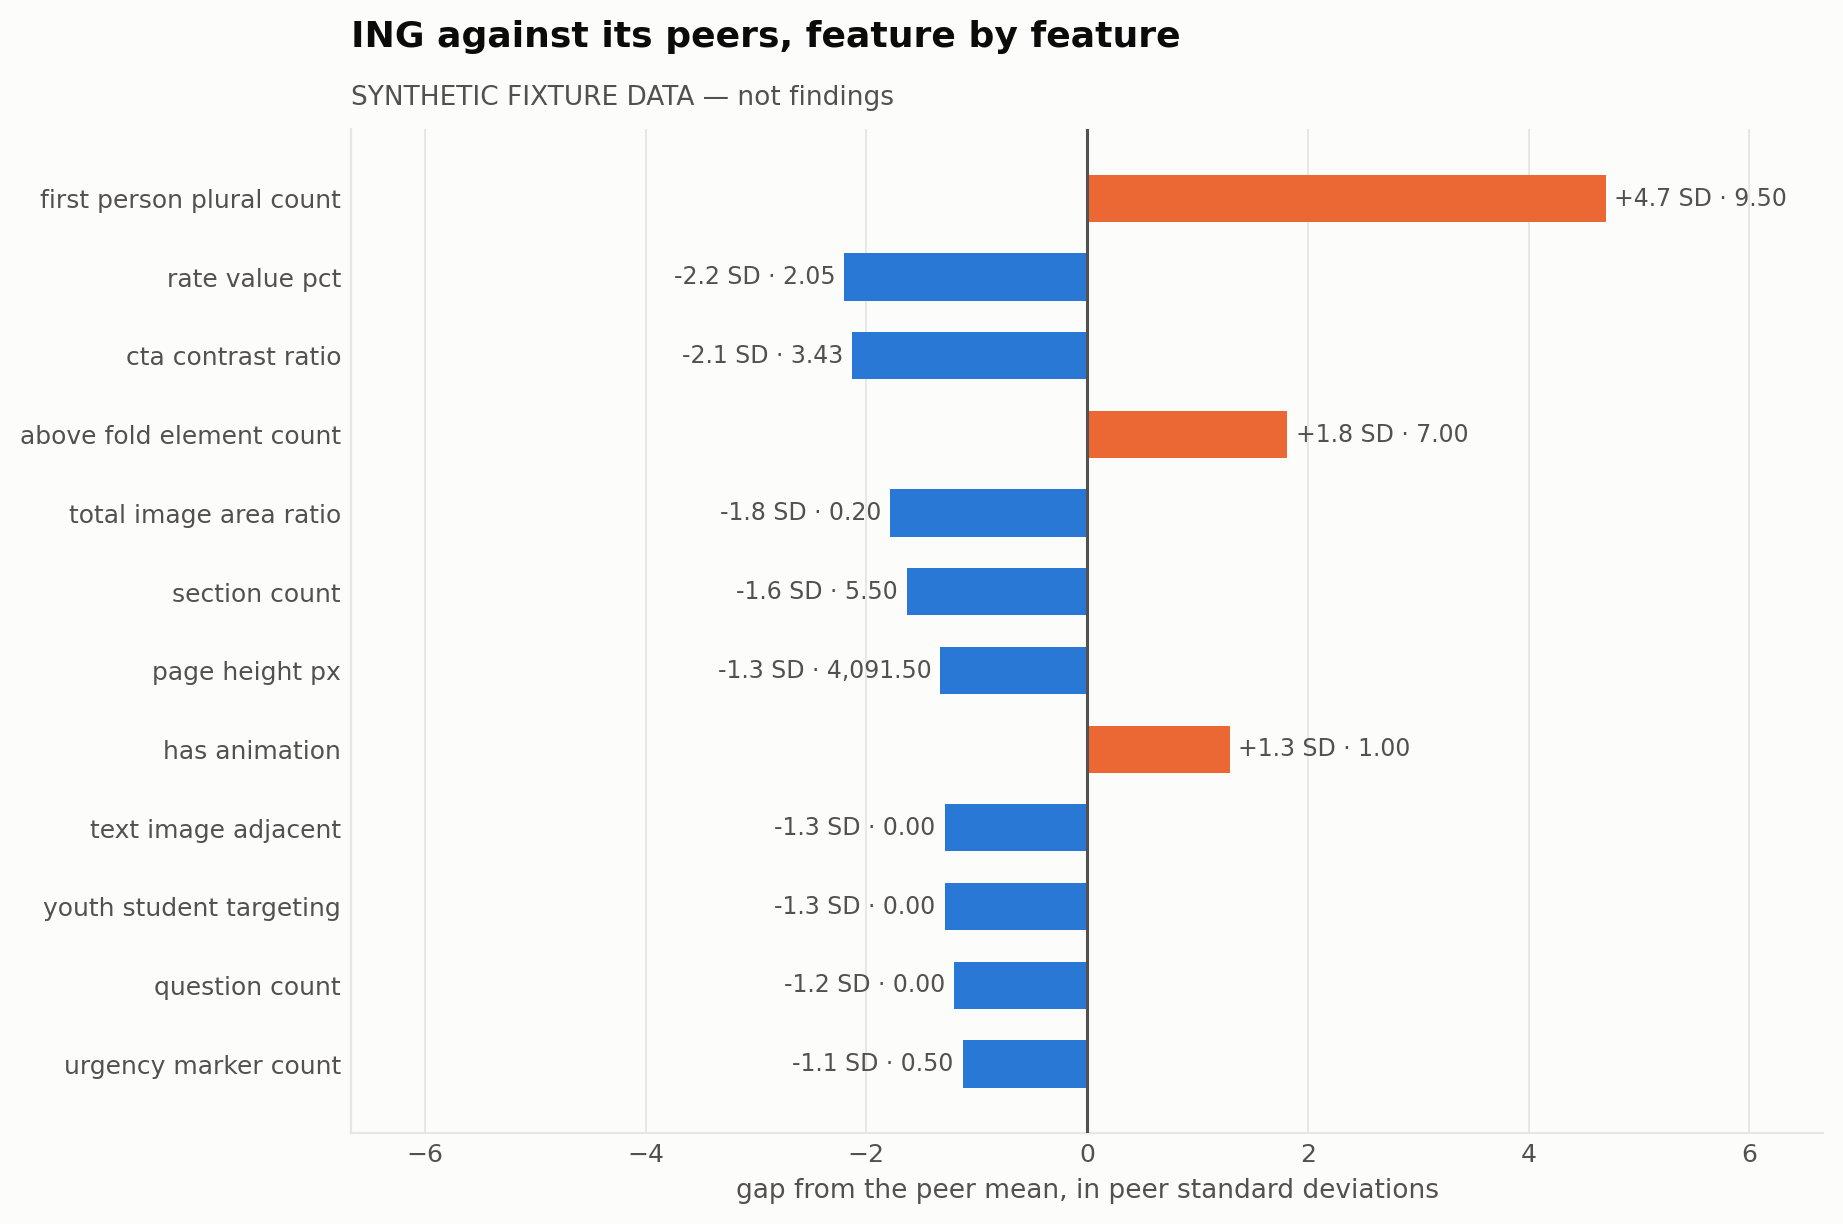
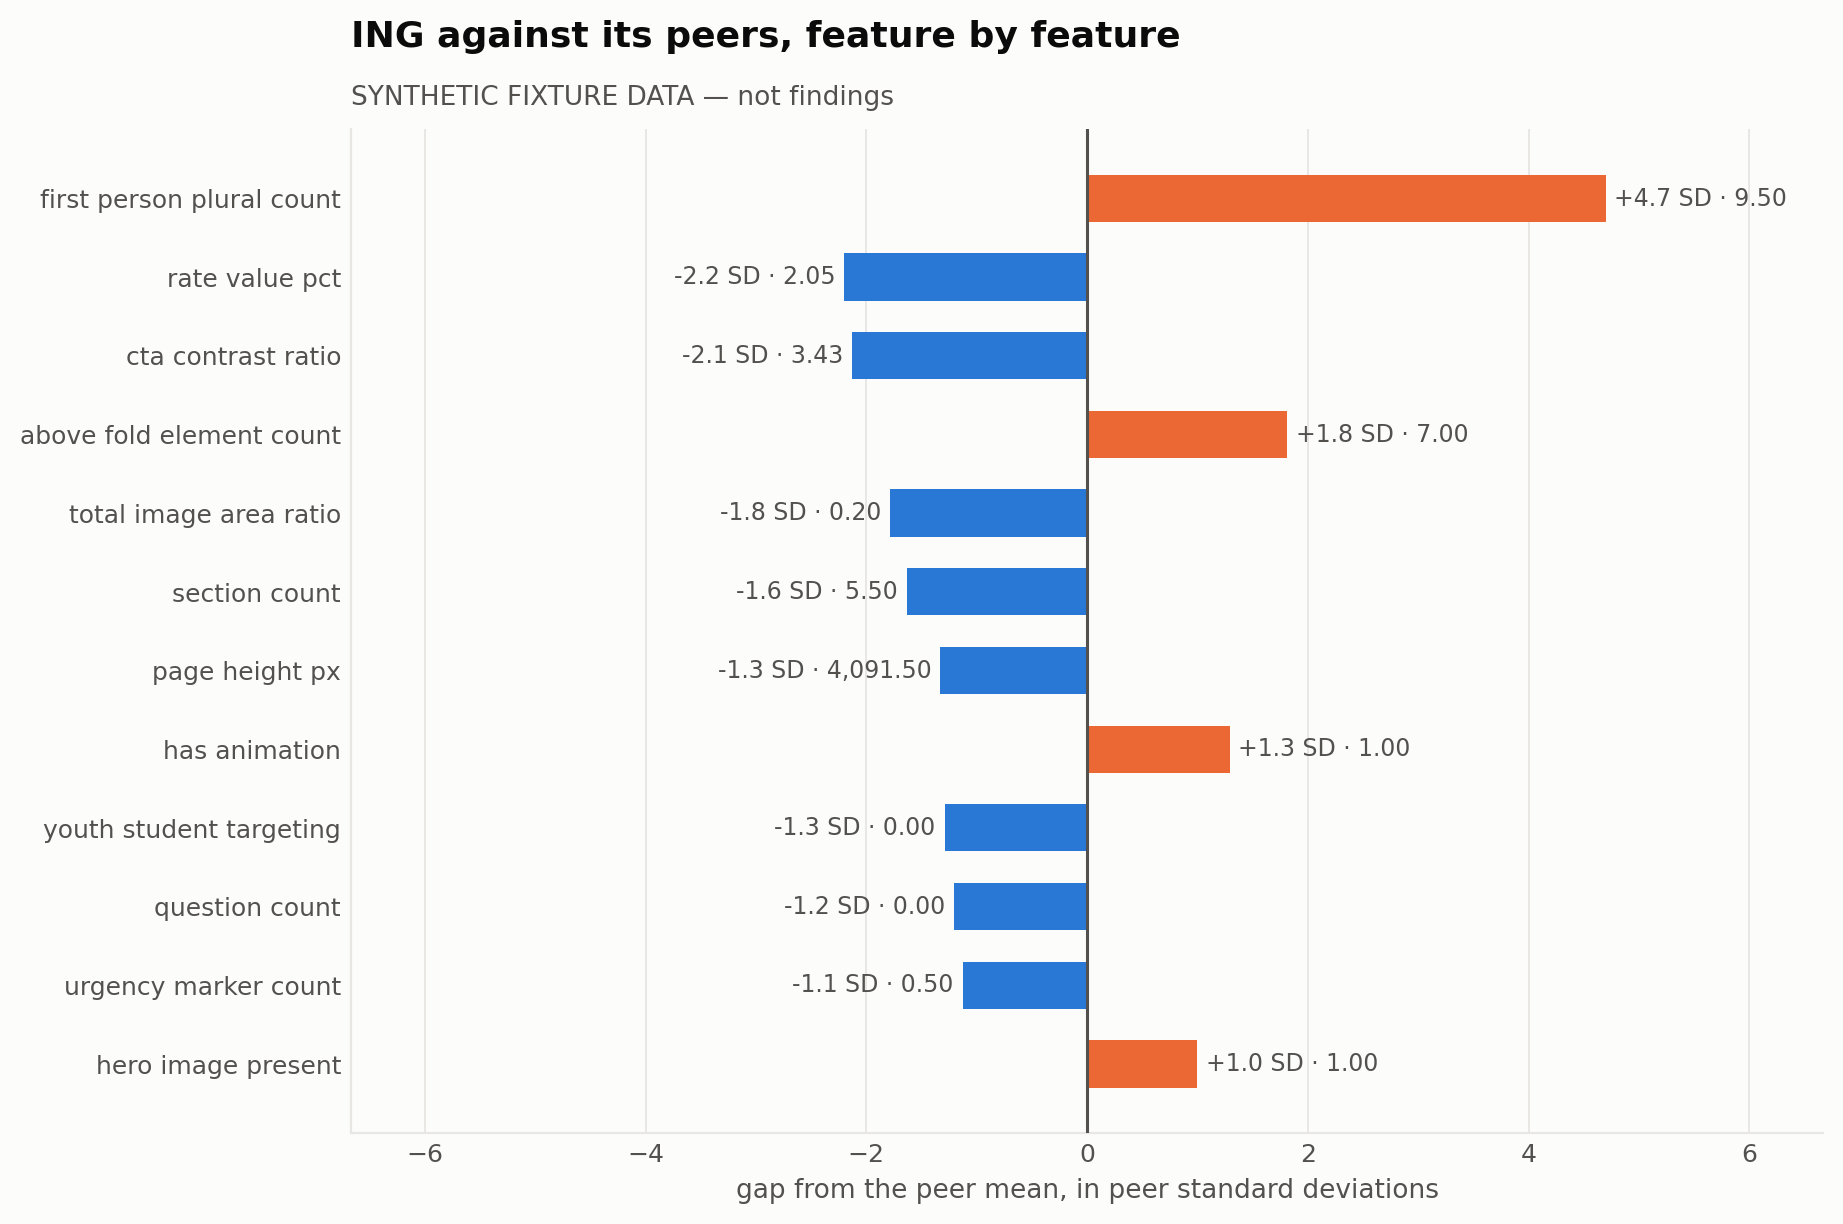
bugfixes + verification pass: NPS note, French CTA keywords, stale outputs, README

diff --git a/tests/test_generation.py b/tests/test_generation.py
@@ -69,6 +69,19 @@ def test_both_variants_are_built(df, fd):
     assert targets["on_brand"].specs and targets["challenger_style"].specs
 
 
+# sieg 15/09: new test - cta_above_fold/disclaimer_present are unconditionally
+# appended as rubric-driven specs, but were not excluded from the data-derived
+# "movable" list. Didn't trigger on the fixture (neither landed in the top_n),
+# but real data could put cta_above_fold there (it's a real traditional/
+# challenger differentiator), which would score it twice in the scorecard.
+def test_no_target_feature_is_named_twice(df, fd):
+    for variant, target in build_targets(df, fd).items():
+        features = [s.feature for s in target.specs]
+        assert len(features) == len(set(features)), (
+            f"{variant}: duplicate target spec(s) for {[f for f in features if features.count(f) > 1]}"
+        )
+
+
 def test_targets_only_name_measurable_features(df, fd):
     for target in build_targets(df, fd).values():
         for spec in target.specs:

diff --git a/tests/test_freeze.py b/tests/test_freeze.py
@@ -99,6 +99,18 @@ def test_narrowing_a_range_is_breaking():
     assert not compare(frozen, current).ok
 
 
+# sieg 15/09: new test - freeze.py used to only check narrowing of an
+# EXISTING range, so adding a range to a feature that had none before slipped
+# through unchecked even though it is itself a narrowing (values already
+# recorded outside the new range become invalid).
+def test_adding_a_range_where_none_existed_is_breaking():
+    frozen = _dictionary([_feature("count", type="integer")])
+    current = _dictionary([_feature("count", type="integer", range=[0, 100])])
+    report = compare(frozen, current)
+    assert not report.ok
+    assert any("range added" in b for b in report.breaking)
+
+
 def test_demoting_a_core_feature_is_breaking():
     frozen = _dictionary([_feature("word_count", tier="core")])
     current = _dictionary([_feature("word_count", tier="extended", required=False)])

diff --git a/src/comparator/collection/scraper.py b/src/comparator/collection/scraper.py
@@ -68,6 +68,13 @@ _LOYALTY_REFERRAL_TERMS = [
 _CTA_KEYWORDS = (
     "discover", "open", "apply", "get started", "sign up", "learn more",
     "decouvrir", "découvrir", "ouvrir", "demander", "en savoir plus",
+    # sieg 15/09: FIXED - verified live on kbc.be, this list only had the FR
+    # infinitives, so real buttons ("Ouvrez un compte à vue", "Ouvrez dès
+    # maintenant...") scored cta_count=0. Banking CTAs are near-universally
+    # the imperative in French, not the infinitive ("ouvrir" is not a
+    # substring of "ouvrez") - added the imperative forms actually seen,
+    # per this module's own "extend as real pages surface terms these miss".
+    "ouvrez", "découvrez", "decouvrez", "demandez", "profitez", "simulez", "calculez",
     "ontdek", "openen", "aanvragen", "meer weten",
 )
 

diff --git a/tests/test_collection.py b/tests/test_collection.py
@@ -94,6 +94,18 @@ def test_extract_counts_ctas_by_keyword():
     assert result["cta_count"] == 2  # "Discover more", "Open an account"
 
 
+def test_extract_counts_french_imperative_ctas():
+    # sieg 15/09: regression - verified live on kbc.be, real buttons say
+    # "Ouvrez un compte à vue" (imperative), not "ouvrir" (infinitive, the
+    # only form that used to be in _CTA_KEYWORDS) - scored cta_count=0.
+    html = """<html><body><p>Texte.</p>
+    <a href="#">Ouvrez un compte à vue</a>
+    <a href="#">Découvrez nos offres</a>
+    </body></html>"""
+    result = extract(html, language="fr")
+    assert result["cta_count"] == 2
+
+
 def test_extract_detects_comparison_table():
     result = extract(SAMPLE_HTML, language="en")
     assert result["has_comparison_table"] is True

diff --git a/docs/feature_dictionary.md b/docs/feature_dictionary.md
@@ -64,7 +64,7 @@
 | `second_person_ratio` | float<br>[0, 1] | automatic | within_language | core | Share of personal pronouns that address the reader (je/u/jij, vous/tu, you).<br>*Direct address is a known challenger-bank marker. Cheap to compute, high signal.* |
 | `first_person_plural_count` | integer<br>[0, ∞] | automatic | within_language | extended | Occurrences of bank-as-we pronouns (wij/we, nous, we/our). |
 | `question_count` | integer<br>[0, ∞] | automatic | cross_language | extended | Number of question marks in body text. |
-| `urgency_marker_count` | integer<br>[0, ∞] | automatic | cross_language | core | Occurrences of scarcity or deadline language, matched against a per-language term list (only until, limited offer, nog tot, offre limitee, ...).<br>*The ING term-account promo in the deck carries "This offer is only available until 13/10/2025".* |
+| `urgency_marker_count` | integer<br>[0, ∞] | automatic | cross_language | core | Occurrences of scarcity or deadline language, matched against a per-language term list (only until, limited offer, nog tot, offre limitee, ...).<br>*sieg 15/09 - year corrected. The ING term-account promo carries "This offer is only available until 13/10/2026".* |
 | `numeric_claim_count` | integer<br>[0, ∞] | automatic | cross_language | core | Count of numeric claims in body text (percentages, amounts, durations). |
 | `formality_score` | integer<br>[1, 5] | rubric | cross_language | core | How formal the register is. 1 = conversational, 5 = institutional. |
 | `clarity_score` | integer<br>[1, 5] | rubric | cross_language | extended | How easily a first-time reader grasps the offer. 1 = opaque, 5 = immediate. |
@@ -248,7 +248,7 @@
 | `primary_cta_type` | categorical<br>`self_service_online` · `book_advisor_or_branch` · `other` | model_assisted | cross_language | core | Whether the primary call to action is self-service online, booking an advisor/branch visit, or something else.<br>*sieg 14/09 - a distribution-model signal; a neobank structurally cannot offer book_advisor_or_branch.* |
 | `switching_framing` | categorical<br>`retention_reassurance` · `acquisition_encouragement` · `not_applicable` | model_assisted | cross_language | extended | Whether the message reassures against switching away (retention) or actively encourages switching in (acquisition), if applicable at all.<br>*sieg 14/09 - Belgium's bank-switching service makes this a concrete, mesurable framing choice, not a vague "tone".* |
 | `regulatory_disclosure_prominence` | categorical<br>`prominent` · `present_not_prominent` · `absent` · `not_applicable` | model_assisted | cross_language | core | How visible the mandated disclosure THAT APPLIES TO THIS PAGE'S product_family is: APR/TAEG for mortgage, the deposit guarantee scheme for term_account/savings_account, a capital-at-risk warning for investment. not_applicable when no such disclosure is expected for this product_family (e.g. a plain current_account_pack with no credit component) - do not score it "absent" in that case, absent is reserved for a disclosure that IS expected but isn't shown.<br>*sieg 14/09 - distinct from disclaimer_present/disclaimer_word_share (which measure raw presence and word share automatically): this judges whether disclosures are placed where a reader will actually see them, which is what a compliance reviewer cares about.* |
-| `hidden_conditions_behind_free_claim` | boolean | model_assisted | cross_language | extended | Whether "free" is the headline claim while conditions (minimum balance, usage requirement) sit in small print.<br>*sieg 14/09 - ties directly to the kickoff deck's own top-NPS-irritator finding about ING's communications.* |
+| `hidden_conditions_behind_free_claim` | boolean | model_assisted | cross_language | extended | Whether "free" is the headline claim while conditions (minimum balance, usage requirement) sit in small print.<br>*sieg 15/09 - not the deck's NPS-irritator finding (p.11's irritator is ad volume/frequency across channels, not hidden conditions behind a "free" claim, and isn't measurable from one page anyway). Stands on its own as a common banking dark pattern.* |
 | `esg_claim_specificity` | categorical<br>`no_claim` · `vague_adjective_only` · `backed_by_reference_or_figure` | model_assisted | cross_language | extended | Whether a sustainability claim carries a verifiable reference or figure, is an adjective only, or is absent.<br>*sieg 14/09 - recalibrated from an earlier idea of reading the SFDR Article 6/8/9 classification directly off the page; that classification lives in the KID/prospectus, rarely on a marketing page, so this coarser version is the realistic one.* |
 | `green_product_specific_benefit` | boolean | model_assisted | cross_language | extended | Whether a concrete financial benefit (e.g. a rate discount) is explicitly tied to a green/energy-performance criterion, vs a generic sustainability claim.<br>*sieg 14/09 - a green mortgage with an actual rate discount is a stronger signal than "we are sustainable".* |
 | `mentions_loyalty_or_referral` | boolean | automatic | cross_language | extended | Whether the page advertises a loyalty programme or a referral scheme ("invite a friend").<br>*sieg 14/09 - a public-page proxy for CRM/retention strategy. True CRM/personalisation data sits behind authentication and is out of reach entirely (DR-01/DR-09) - this is not a substitute for it, just the closest observable signal on a public page.* |

diff --git a/README.md b/README.md
@@ -20,7 +20,7 @@ robots.txt review clears each domain.
 
 | Deliverable | State |
 | --- | --- |
-| Feature dictionary v0.1 (D-03) | drafted, 67 features — **awaiting the Day 2 freeze** |
+| Feature dictionary v0.1 (D-03) | drafted, 97 features — **awaiting the Day 2 freeze tag** |
 | Dataset schema + validator (D-04) | built and tested |
 | Analysis skeleton (D-05) | runs end to end on fixture data |
 | Bank profile cards | generated, 9 banks |
@@ -37,7 +37,7 @@ python3 scripts/run_generation.py         # step 5: generate 2 variants and scor
 python3 scripts/run_generation.py --dry-run   # ...without calling a model
 python3 scripts/check_schema_freeze.py    # enforce the Day 2 freeze rule
 python3 scripts/build_feature_docs.py     # regenerate docs/feature_dictionary.md
-python3 -m pytest tests/ -q               # 115 tests
+python3 -m pytest tests/ -q               # 124 tests
 ```
 
 Outputs land in `outputs/`: four charts, `charts.md` explaining what each one
@@ -123,15 +123,19 @@ src/comparator/
   profiles.py                    bank profile cards
   analysis.py                    positioning, group comparison, similarity
   charts.py                      the four charts
+  freeze.py                      the Day 2 freeze rule, enforced semantically
+  generation.py                  step 5: targets, brief, rendering, scoring
+  generation_guardrails.py       step 5 safety checklist (Appendix B.2)
+  report.py                      the generated chart companion
+  collection/                    Dan + Siegried: compliance, scraper, LLM, visuals
 scripts/
   make_fixture.py                write the synthetic dataset
   run_analysis.py                the end-to-end chain
+  run_collection.py              real captures: compliance -> scrape -> extract -> validate
+  run_generation.py              CLI for step 5 (generation.py)
+  check_schema_freeze.py         CLI for the freeze rule (freeze.py)
   build_feature_docs.py          YAML -> markdown
-  freeze.py                      the Day 2 freeze rule, enforced semantically
-  generation.py                  step 5: targets, brief, rendering, scoring
-  report.py                      the generated chart companion
-  collection/                    Dan + Siegried: compliance, scraper, LLM, visuals
-tests/                           115 tests
+tests/                           124 tests
 data/fixtures/                   synthetic sample (committed)
 data/raw/                        snapshots — gitignored, Dan's output
 outputs/                         charts and tables — gitignored
@@ -156,8 +160,14 @@ warns, and `run_analysis.py` prints a banner on every run.
 | Where does ING stand vs competitors? | `ing_vs_peers` | BO-01, FR-09 |
 | Traditional or challenger? | `positioning_axis` | BO-02 |
 | Which banks communicate alike? | `similarity_matrix`, `cluster_banks` | BO-03 |
+| What recurring patterns cross the whole market? | `recurring_patterns` | BO-04 |
 | What separates the two groups? | `category_comparison` | FR-08 |
+| Which gaps are worth arguing from, with evidence? | `insight_candidates` | BO-06, FR-10 |
 | Do the deck's observations hold? | `check_deck_claims` | FR-14 |
+
+BO-05 (reusable feature framework) isn't a function - it's demonstrated by
+adding a bank via config, not code (FR-16). BO-07 (compliant, reproducible
+method) lives in `collection/compliance.py` and `schema.py`, not here.
 
 Sample sizes are small by design (PRD risk R-03). Nothing here computes a p-value
 or claims significance — Cohen's d is reported as a description of separation, not

diff --git a/outputs/charts.md b/outputs/charts.md
@@ -25,19 +25,19 @@ Companion to the figures in this folder. Each section says what the chart is act
 
 **How to read it.** Left is traditional, right is challenger. Colour carries the bank's declared category, so a dot far from its own colour's cluster is the interesting case. ING is ringed and bold.
 
-**What this run shows.** ING scores **0.12** — clearly with the traditional banks. Computed over 51 features.
+**What this run shows.** ING scores **0.10** — clearly with the traditional banks. Computed over 50 features.
 
-The two groups do not overlap: the most challenger-like incumbent sits at 0.12 and the most traditional challenger at 0.96, a gap of 0.84. That separation is what makes the axis meaningful — if the groups interleaved, the projection would be measuring noise.
+The two groups do not overlap: the most challenger-like incumbent sits at 0.11 and the most traditional challenger at 0.95, a gap of 0.85. That separation is what makes the axis meaningful — if the groups interleaved, the projection would be measuring noise.
 
 | Bank | Category | Position |
 | --- | --- | --- |
-| crelan | traditional | -0.10 |
-| argenta | traditional | -0.08 |
-| belfius | traditional | -0.06 |
-| bnp_paribas_fortis | traditional | 0.01 |
-| kbc | traditional | 0.10 |
-| ing **(focus)** | traditional | 0.12 |
-| n26 | challenger | 0.96 |
+| crelan | traditional | -0.09 |
+| argenta | traditional | -0.07 |
+| belfius | traditional | -0.05 |
+| bnp_paribas_fortis | traditional | 0.02 |
+| ing **(focus)** | traditional | 0.10 |
+| kbc | traditional | 0.11 |
+| n26 | challenger | 0.95 |
 | bunq | challenger | 0.99 |
 | revolut | challenger | 1.06 |
 
@@ -109,7 +109,7 @@ The two groups do not overlap: the most challenger-like incumbent sits at 0.12 a
 
 **Why a single hue.** Distance is a magnitude, not an identity — a categorical palette here would imply the banks are categories of distance, which they are not.
 
-**What this run shows.** The banks closest to ING are **bnp_paribas_fortis** (8.9), **crelan** (9.2), **kbc** (9.3).
+**What this run shows.** The banks closest to ING are **bnp_paribas_fortis** (8.7), **crelan** (8.9), **kbc** (9.0).
 
 | Cluster | Banks |
 | --- | --- |
@@ -133,7 +133,7 @@ Not a chart, but the same discipline: the deck's five eyeball observations, test
 | H1 | Belfius is pretty verbose | supported | belfius=769.0; highest is belfius=769.0 |
 | H2 | KBC is straight to the point | supported | kbc=381.5; lowest traditional is kbc=381.5 |
 | H3 | ING is the only traditional bank using animation | supported | ing=1.00; other traditional banks above zero: none |
-| H4 | ING no longer places text next to picture | supported | ing=0.00 (0 = never adjacent, 1 = always) |
+| H4 | ING no longer places text next to picture | supported | ing's most common text_image_layout: 'stacked' (claim: not 'beside') |
 | H5 | Revolut uses very little text | supported | revolut=162.5; lowest is revolut=162.5 |
 
 ---

diff --git a/outputs/bank_profiles.md b/outputs/bank_profiles.md
@@ -20,7 +20,7 @@
 | image area share | 0.27 |
 | archetype | long_form |
 | hero image | no |
-| text image adjacent | yes (all pages) |
+| text image layout | beside |
 | page height px | 4,294 |
 | cta count | 4 |
 | cta above fold | 50% of pages |
@@ -58,7 +58,7 @@
 | image area share | 0.32 |
 | archetype | split_columns |
 | hero image | no |
-| text image adjacent | yes (all pages) |
+| text image layout | beside |
 | page height px | 4,421 |
 | cta count | 2.5 |
 | cta above fold | 50% of pages |
@@ -96,7 +96,7 @@
 | image area share | 0.33 |
 | archetype | split_columns |
 | hero image | yes (all pages) |
-| text image adjacent | yes (all pages) |
+| text image layout | beside |
 | page height px | 4,754 |
 | cta count | 4.5 |
 | cta above fold | 50% of pages |
@@ -134,7 +134,7 @@
 | image area share | 0.51 |
 | archetype | card_grid |
 | hero image | yes (all pages) |
-| text image adjacent | no |
+| text image layout | overlaid |
 | page height px | 5,430 |
 | cta count | 8 |
 | cta above fold | yes (all pages) |
@@ -172,7 +172,7 @@
 | image area share | 0.32 |
 | archetype | long_form |
 | hero image | no |
-| text image adjacent | yes (all pages) |
+| text image layout | beside |
 | page height px | 4,158 |
 | cta count | 2 |
 | cta above fold | 50% of pages |
@@ -210,7 +210,7 @@
 | image area share | 0.2 |
 | archetype | hero_stacked |
 | hero image | yes (all pages) |
-| text image adjacent | no |
+| text image layout | stacked |
 | page height px | 4,092 |
 | cta count | 3.5 |
 | cta above fold | 50% of pages |
@@ -248,7 +248,7 @@
 | image area share | 0.32 |
 | archetype | split_columns |
 | hero image | no |
-| text image adjacent | yes (all pages) |
+| text image layout | beside |
 | page height px | 4,451 |
 | cta count | 5 |
 | cta above fold | yes (all pages) |
@@ -286,7 +286,7 @@
 | image area share | 0.48 |
 | archetype | card_grid |
 | hero image | yes (all pages) |
-| text image adjacent | no |
+| text image layout | overlaid |
 | page height px | 5,548 |
 | cta count | 6 |
 | cta above fold | yes (all pages) |
@@ -324,7 +324,7 @@
 | image area share | 0.58 |
 | archetype | card_grid |
 | hero image | yes (all pages) |
-| text image adjacent | no |
+| text image layout | overlaid |
 | page height px | 5,527 |
 | cta count | 6 |
 | cta above fold | yes (all pages) |
